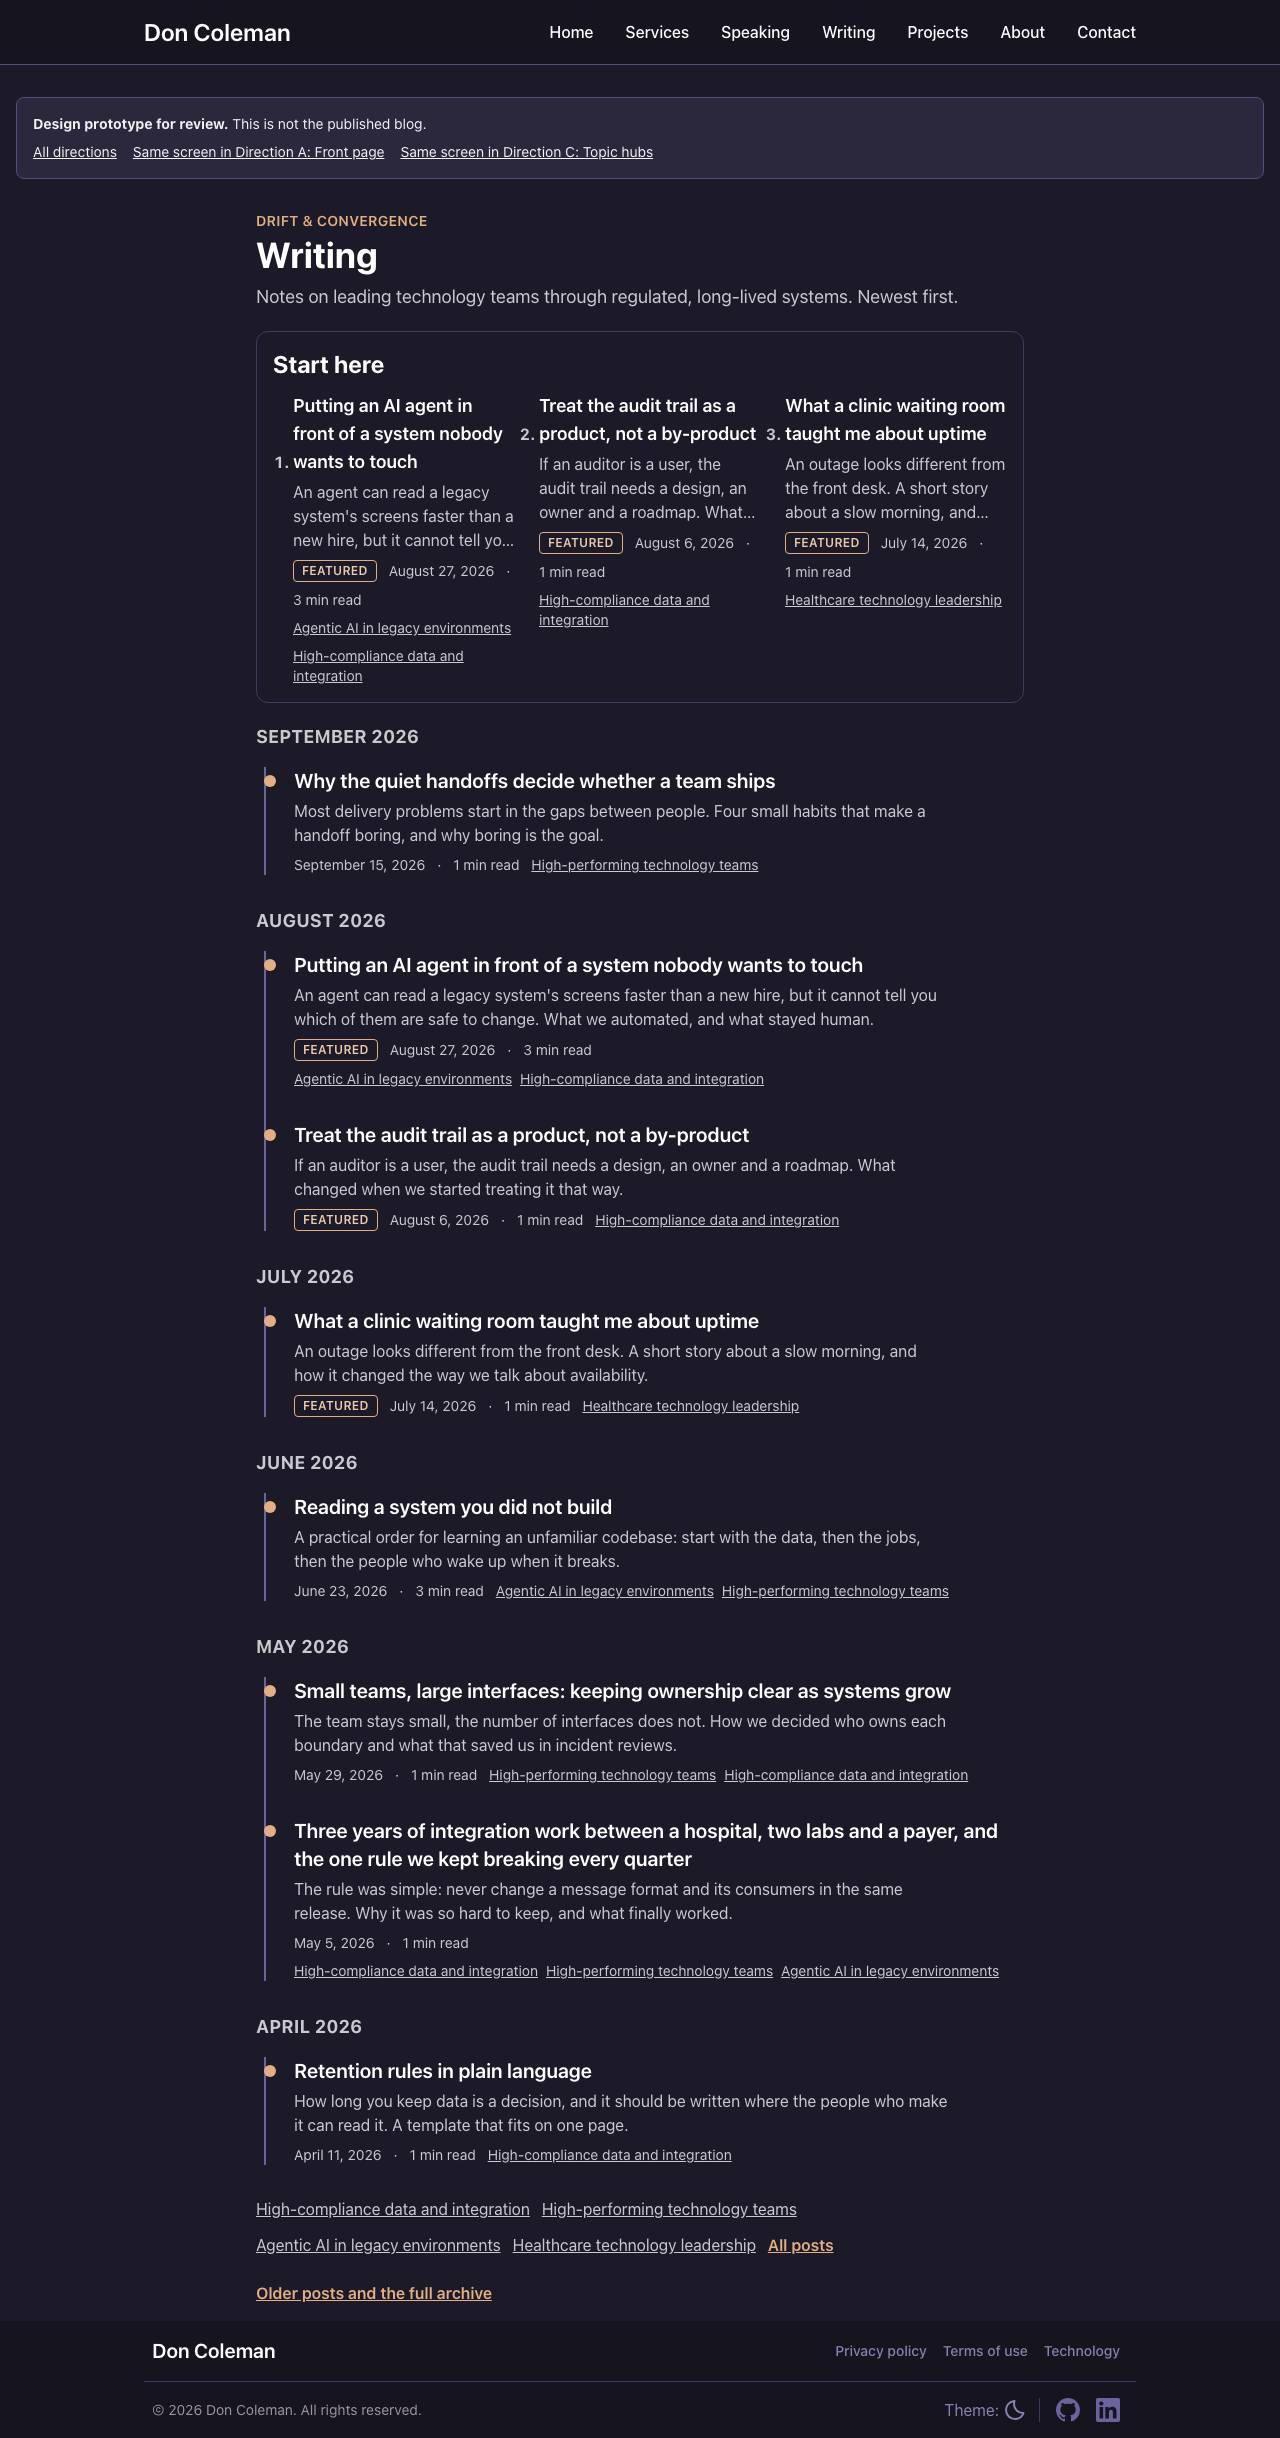
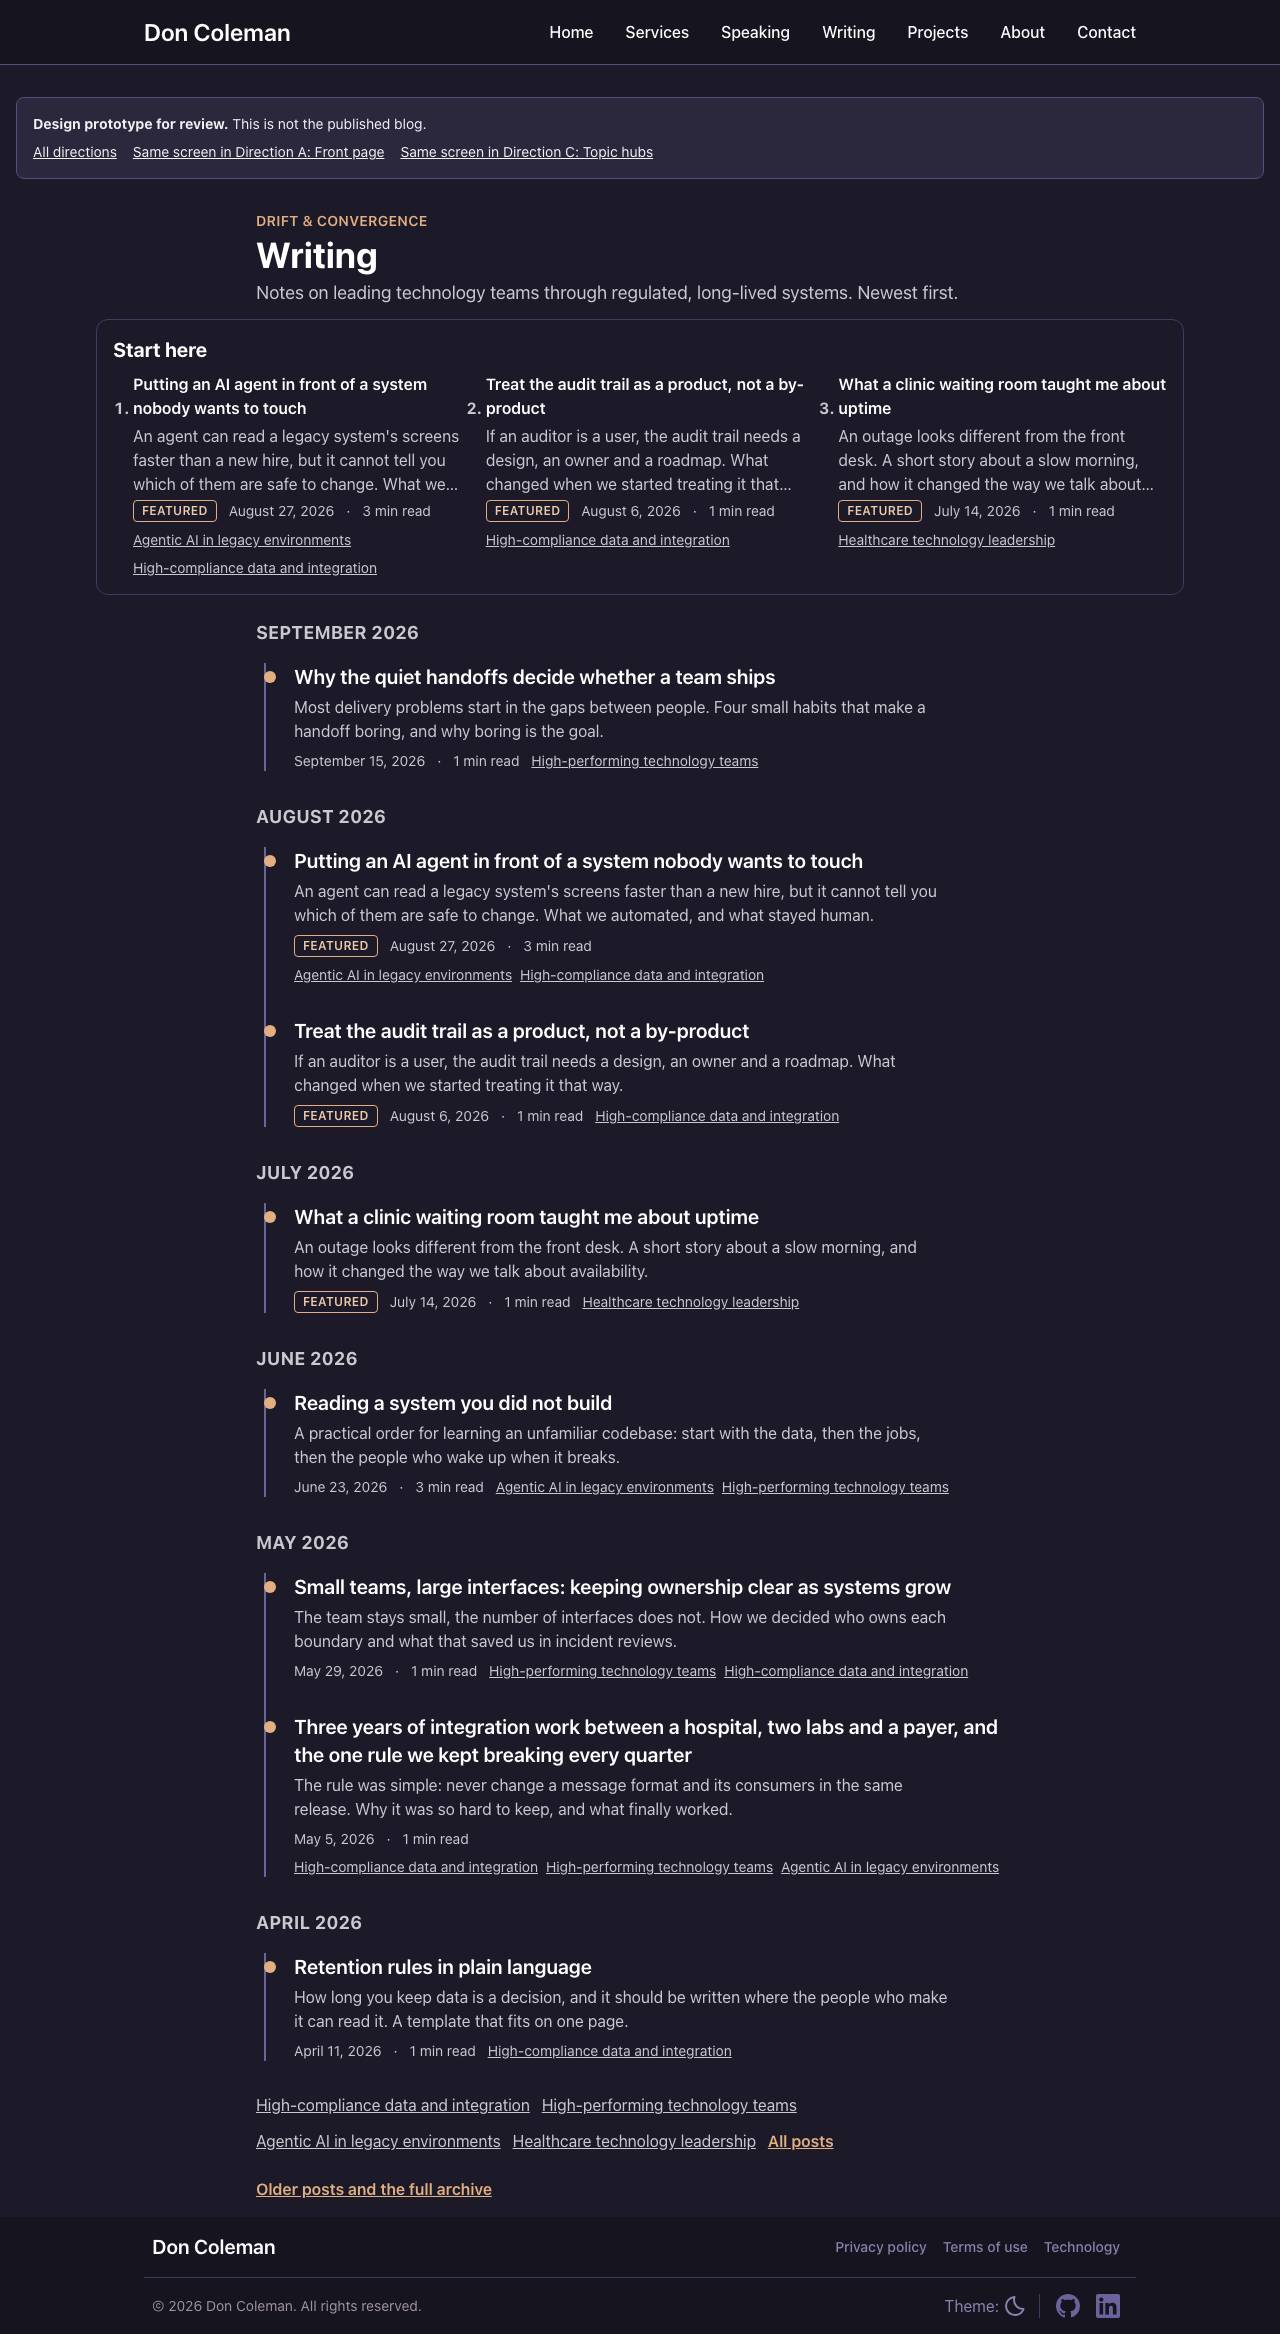
fix(design): give blog prototype layouts headroom for Linux font metrics
CI (Linux) renders text slightly larger than macOS, which broke two
prototype checks that only just passed locally:

- Direction B landing: the newest post sat at 843 px, past the 800 px
  desktop fold. The Start here box now widens past the reading column on
  large screens (lg:-mx-28, xl:-mx-40) so its three columns wrap less,
  with a smaller Start here heading, md:text-base titles and tighter
  heading and meta spacing. The newest post moves from 767 to 663 px on
  macOS. The 3-line summary clamp stays.
- Directions index: at 200 percent text on a phone the h1 and the
  direction cards overflowed sideways. The h1 and card headings now
  break long words, and the card grid is grid-cols-1 with min-w-0
  children below lg.

New tests, seen failing first: each landing keeps the newest post 120 px
clear of the desktop fold, and the index content fits at 200 percent
text at 320 px. The Direction B landing screenshots are recaptured.

Claude-Session: https://claude.ai/code/session_013HGnKLCj6Rvbr1dJLm4Mke

diff --git a/tests/e2e/design-blog.a11y.spec.ts b/tests/e2e/design-blog.a11y.spec.ts
@@ -301,6 +301,19 @@ test.describe("US2: reader needs", () => {
         });
       }
 
+      // Headroom for platform font metrics: Linux CI sets the same text a
+      // little taller than macOS, so the newest post must sit well inside the
+      // first desktop viewport, not just under its edge.
+      test("landing keeps the newest post 120 px clear of the desktop fold", async ({ page }) => {
+        await page.setViewportSize({ width: 1280, height: 800 });
+        await page.goto(landingPath(d));
+        const link = page.locator(`main a[href="${postPath(d, newest)}"]`).first();
+        await expect(link).toBeVisible();
+        const box = (await link.boundingBox())!;
+        const scrollY = await page.evaluate(() => window.scrollY);
+        expect(box.y + scrollY).toBeLessThan(800 - 120);
+      });
+
       test("landing sets featured posts apart with a visible Featured marker", async ({ page }) => {
         await page.goto(landingPath(d));
         const region = { a: "[data-bento]", b: "section:has(> #start-here)", c: "[data-topic-hub]" }[d];
@@ -528,6 +541,24 @@ test.describe("US3: accessibility", () => {
       expect(moving).toEqual([]);
     });
   }
+
+  // Headroom for platform font metrics: Linux CI renders the same text a
+  // little wider than macOS, so the index content must also fit at 200
+  // percent text on the narrowest phone (320 px). The site footer is shared
+  // with every page and is measured by the checks above, so this one looks at
+  // the index's own content inside main.
+  test("text at 200 percent at 320 px: index content fits", async ({ page }) => {
+    await page.setViewportSize({ width: 320, height: 800 });
+    await openPage(page, INDEX_PATH);
+    await page.evaluate(() => {
+      document.documentElement.style.fontSize = "200%";
+    });
+    const overflow = await page.evaluate(() => {
+      const main = document.querySelector("main")!;
+      return main.scrollWidth - main.clientWidth;
+    });
+    expect(overflow).toBeLessThanOrEqual(0);
+  });
 
   for (const p of PAGES.filter((x) => x.screen !== "index")) {
     for (const theme of THEMES) {
